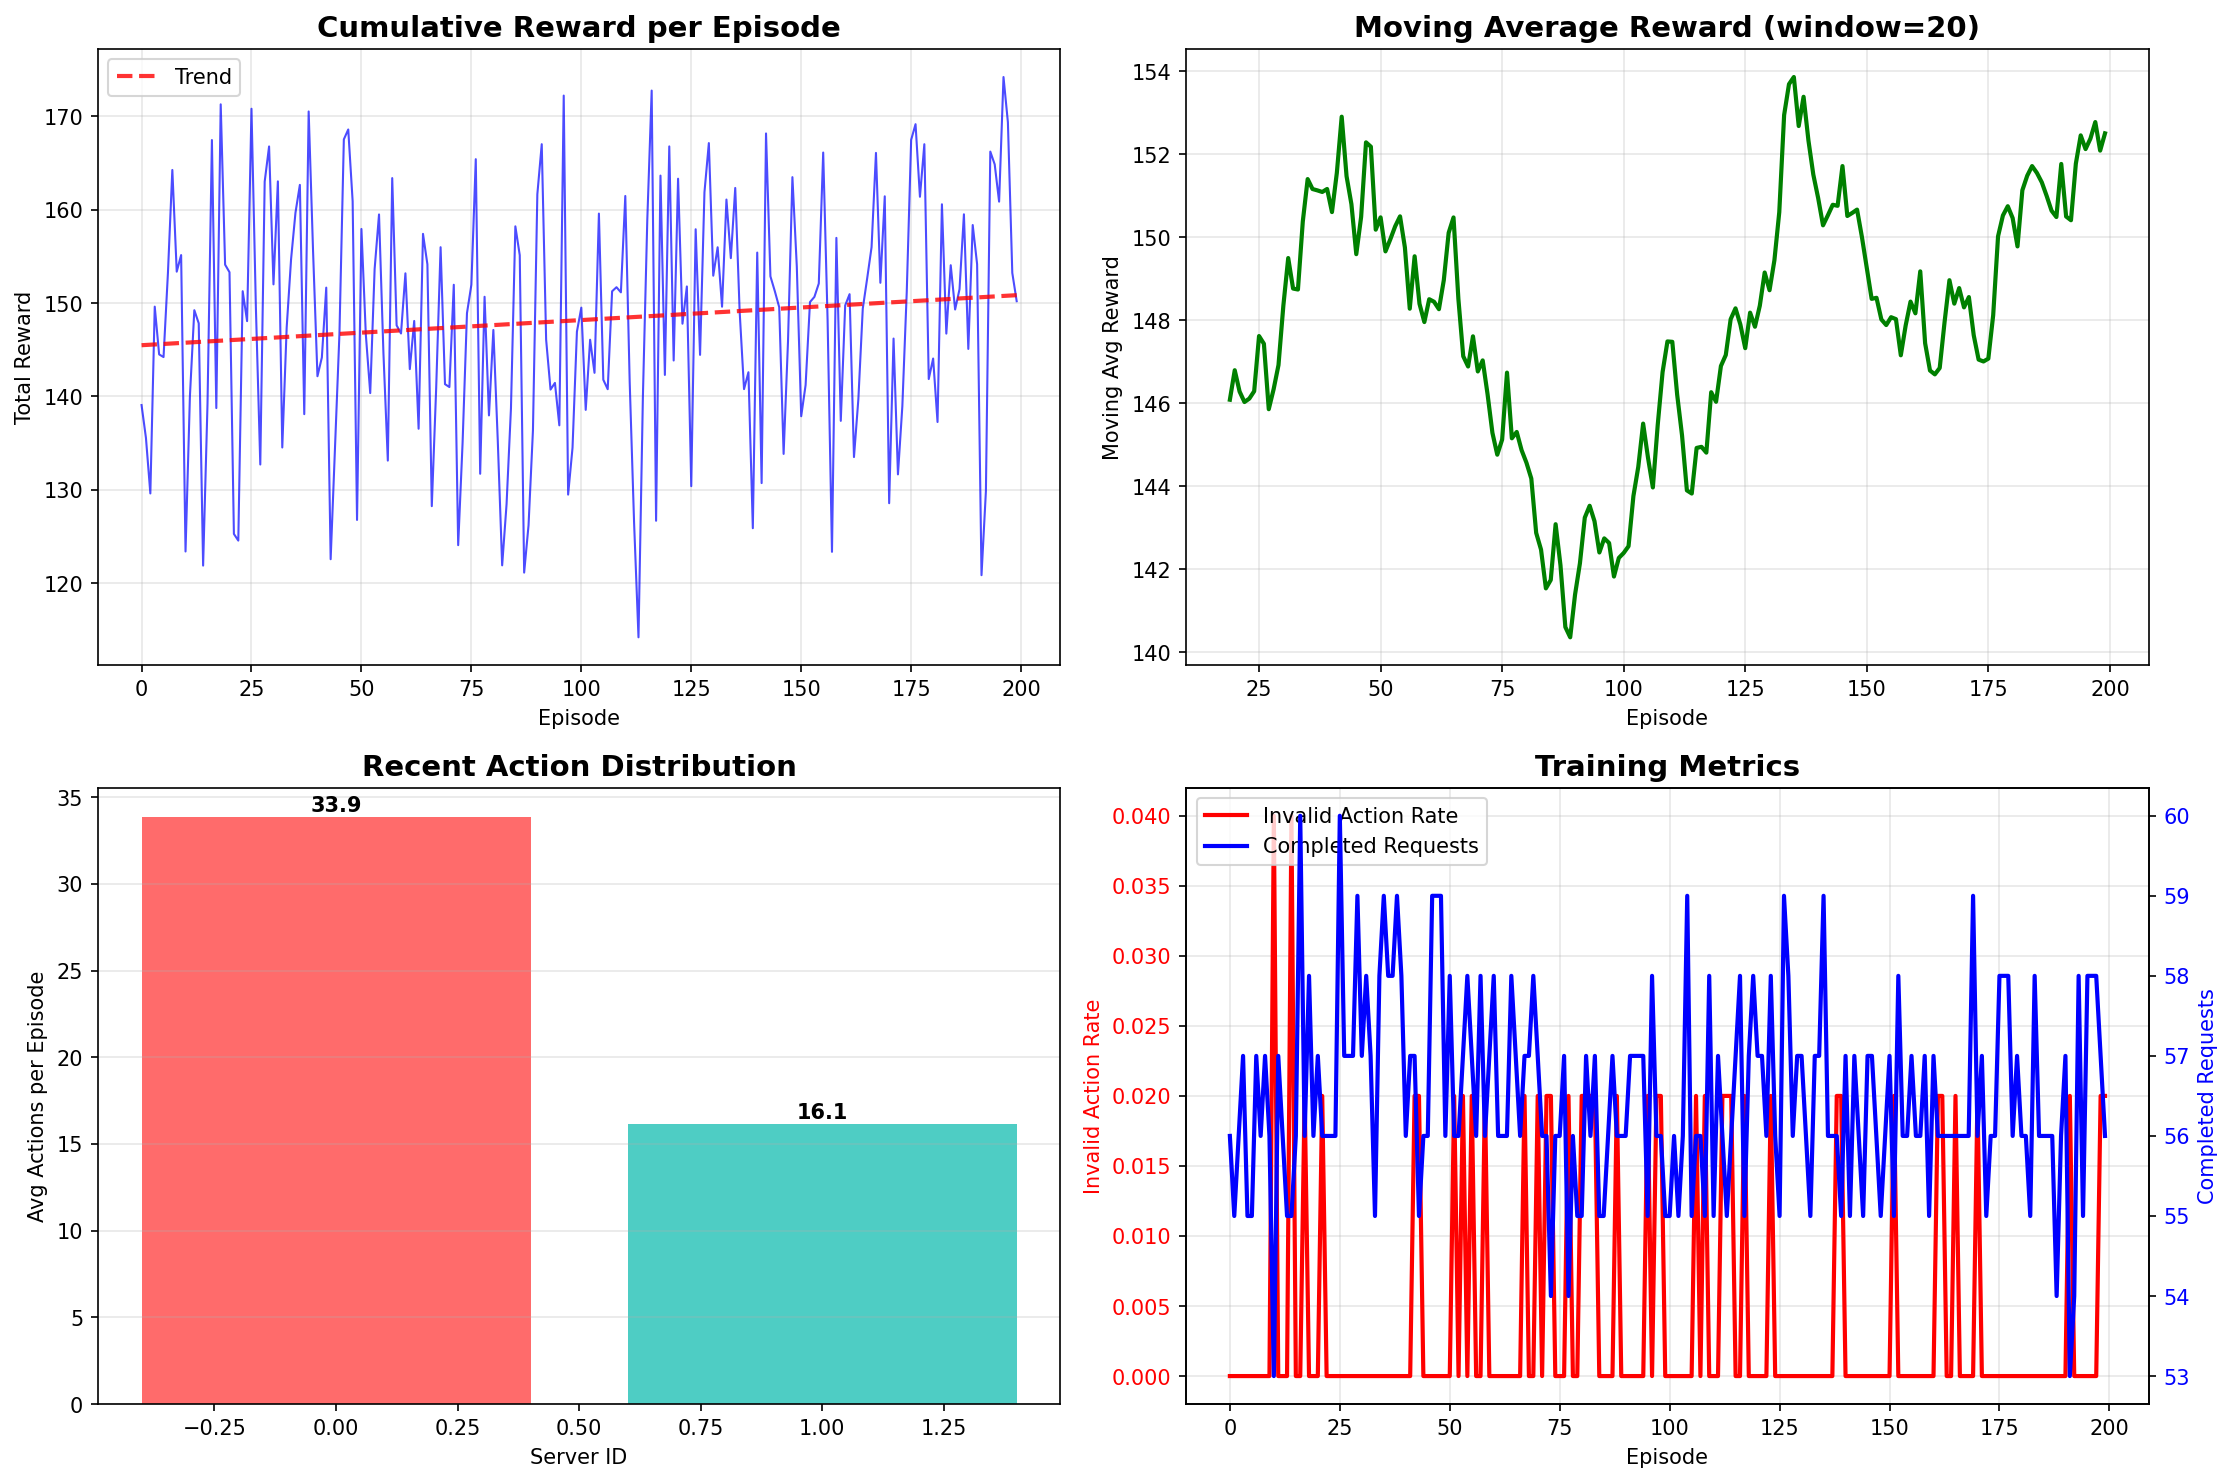
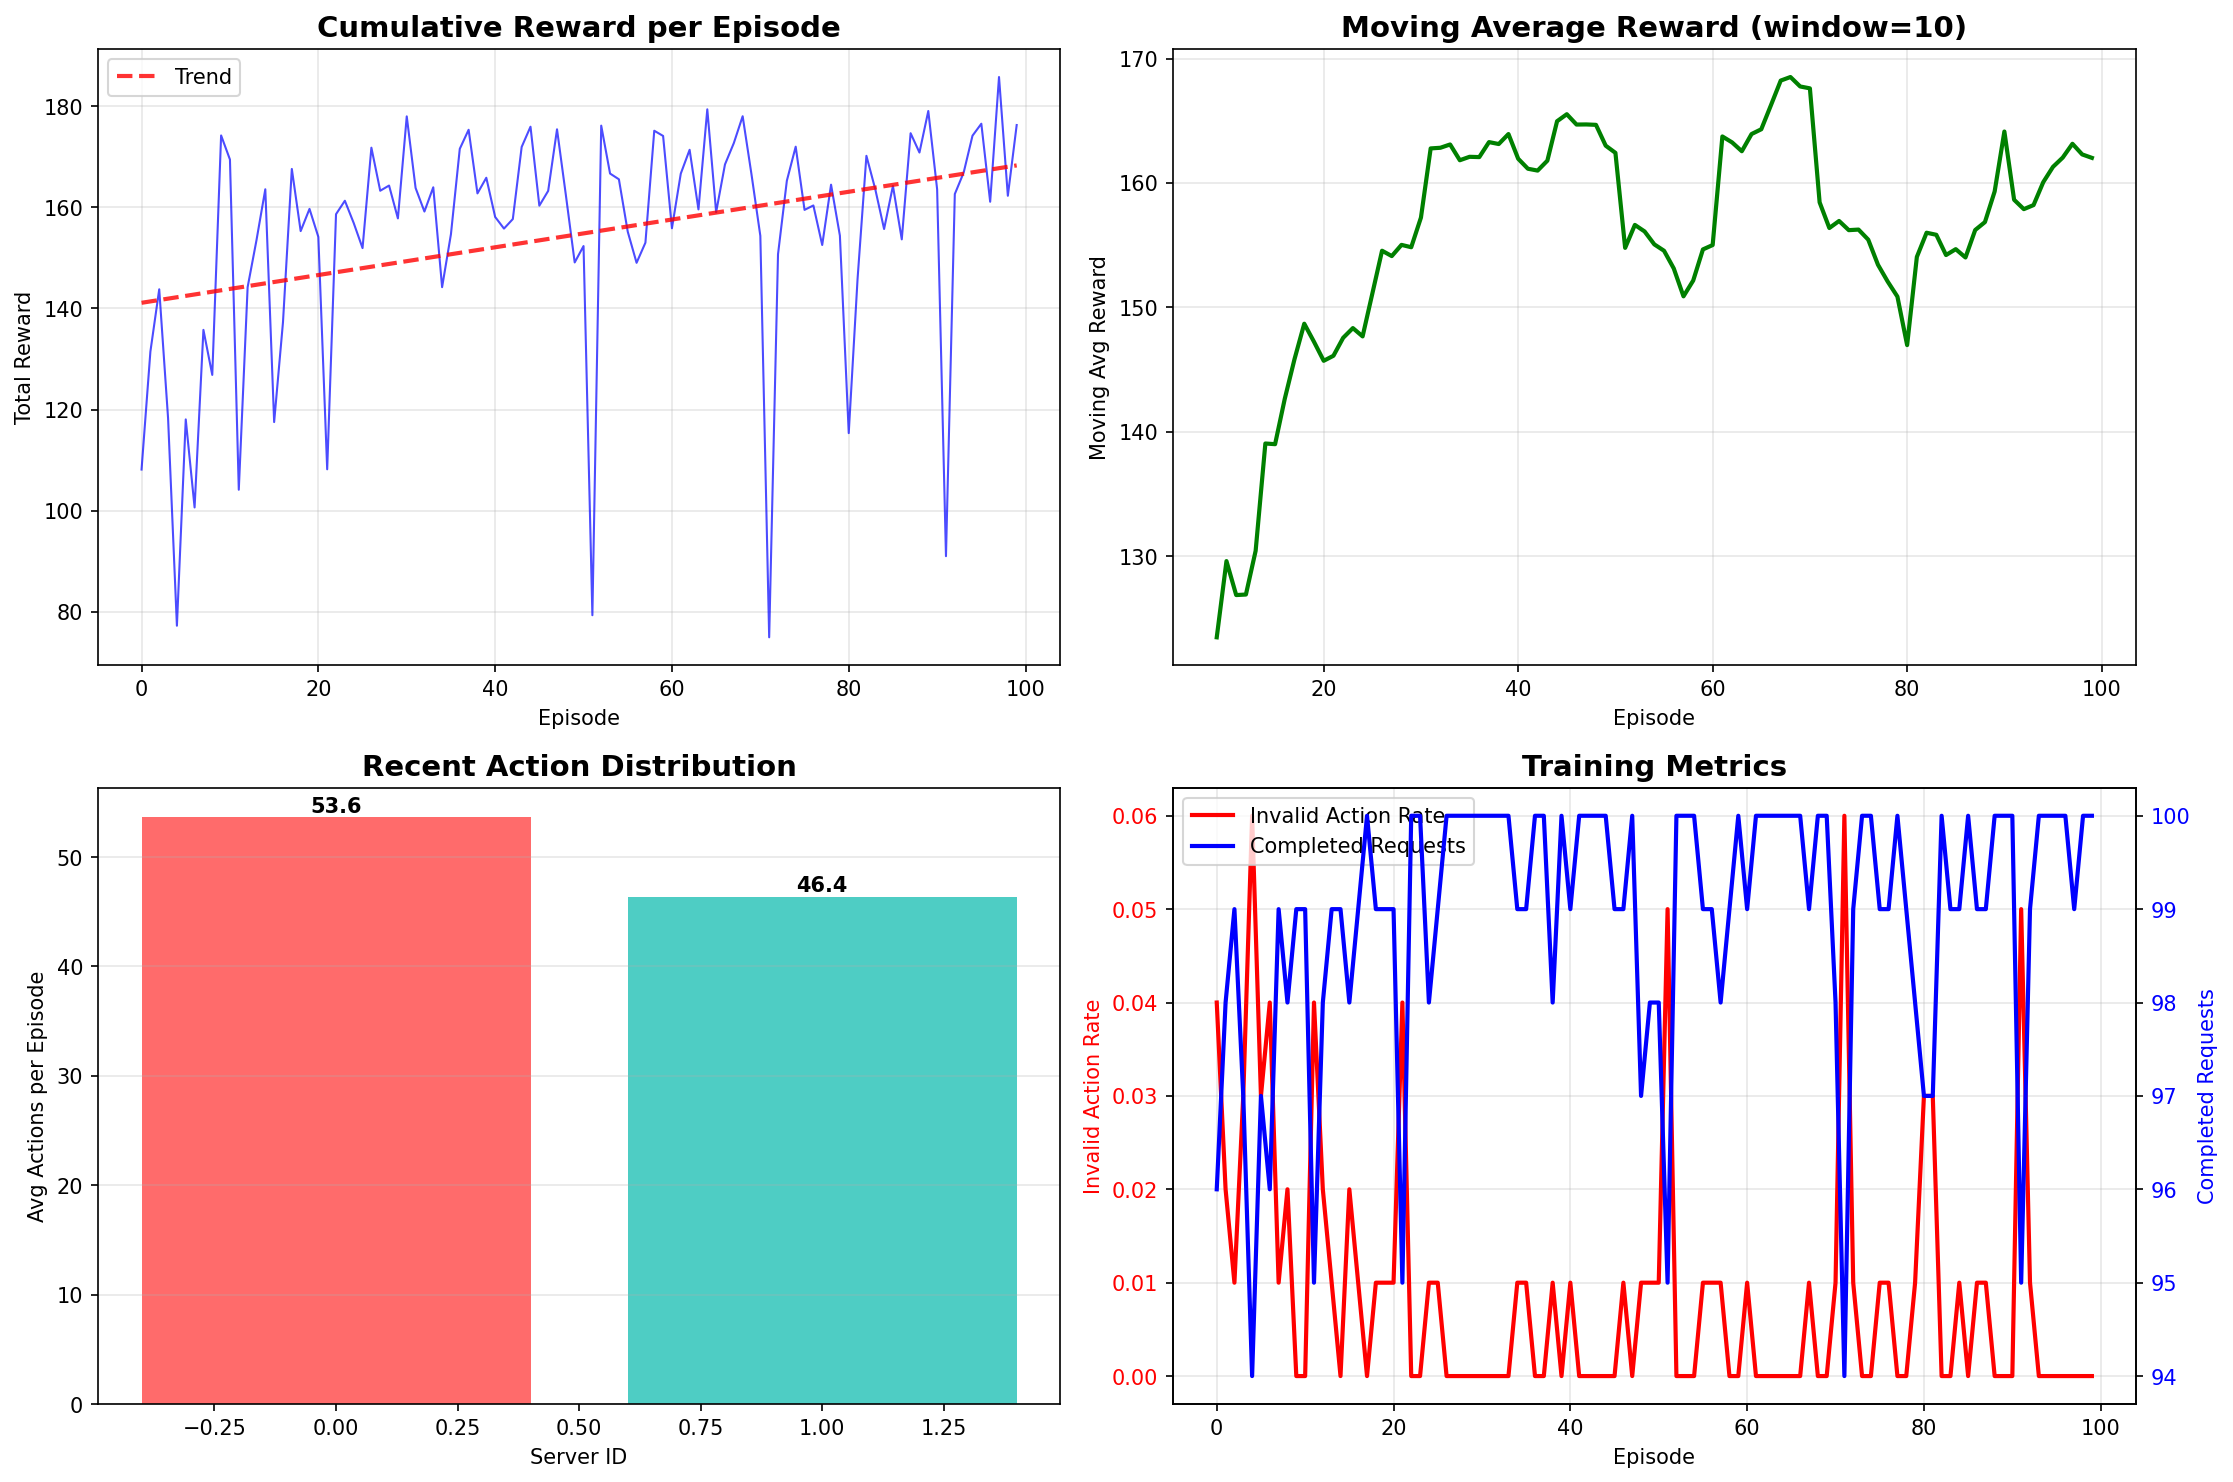
vllm

diff --git a/LLM-ROUTER-V3/data_loader.py b/LLM-ROUTER-V3/data_loader.py
@@ -6,32 +6,50 @@ from config import Config
 class AlpacaDataLoader:
     def __init__(self):
         self.dataset = None
-        self.current_index = 0
+        self.current_episode = 0
+        self.current_step = 0
+        self.partitioned_data = []
         self.load_dataset()
     
     def load_dataset(self):
-        """Load the Alpaca dataset"""
+        """Load and partition the Alpaca dataset"""
         try:
             # Load the Alpaca dataset
             dataset = load_dataset(Config.DATASET_NAME, split='train')
             
-            # Convert to list and shuffle
+            # Convert to list
             self.dataset = list(dataset)
-            random.shuffle(self.dataset)
             
-            # Limit dataset size for testing
-            if len(self.dataset) > Config.MAX_SAMPLES:
-                self.dataset = self.dataset[:Config.MAX_SAMPLES]
+            # Calculate total samples needed
+            total_samples_needed = Config.EPISODE_LENGTH * Config.MAX_EPISODES
             
-            print(f"Loaded {len(self.dataset)} samples from {Config.DATASET_NAME}")
+            # If dataset is smaller than needed, repeat it
+            if len(self.dataset) < total_samples_needed:
+                repetitions = (total_samples_needed + len(self.dataset) - 1) // len(self.dataset)
+                self.dataset = self.dataset * repetitions
+            
+            # Trim to exact size needed
+            self.dataset = self.dataset[:total_samples_needed]
+            
+            # Partition the dataset
+            self.partitioned_data = []
+            for i in range(Config.MAX_EPISODES):
+                start_idx = i * Config.EPISODE_LENGTH
+                end_idx = start_idx + Config.EPISODE_LENGTH
+                episode_data = self.dataset[start_idx:end_idx]
+                self.partitioned_data.append(episode_data)
+            
+            print(f"Loaded and partitioned {len(self.dataset)} samples into "
+                  f"{len(self.partitioned_data)} episodes of {Config.EPISODE_LENGTH} steps each")
             
         except Exception as e:
             print(f"Error loading dataset: {e}")
             # Fallback to dummy data
-            self.dataset = self._create_dummy_dataset()
+            self._create_dummy_dataset()
     
-    def _create_dummy_dataset(self) -> List[Dict]:
-        """Create dummy dataset for testing"""
+    def _create_dummy_dataset(self):
+        """Create partitioned dummy dataset"""
+        total_samples = Config.EPISODE_LENGTH * Config.MAX_EPISODES
         dummy_data = []
         templates = [
             "Explain the concept of {topic}",
@@ -39,9 +57,6 @@ class AlpacaDataLoader:
             "What are the benefits of {topic}?",
             "How does {topic} work?",
             "Compare and contrast {topic1} and {topic2}",
-            "Provide step-by-step instructions for {topic}",
-            "What are the challenges related to {topic}?",
-            "Describe the history of {topic}",
         ]
         
         topics = [
@@ -51,22 +66,52 @@ class AlpacaDataLoader:
             "robotics", "cybersecurity", "nanotechnology"
         ]
         
-        for i in range(Config.MAX_SAMPLES):
-            template = random.choice(templates)
-            if "{topic1}" in template and "{topic2}" in template:
-                topic1, topic2 = random.sample(topics, 2)
-                instruction = template.format(topic1=topic1, topic2=topic2)
-            else:
-                topic = random.choice(topics)
-                instruction = template.format(topic=topic)
+        # Generate deterministic dummy data
+        for i in range(total_samples):
+            template = templates[i % len(templates)]
+            topic = topics[i % len(topics)]
+            instruction = template.format(topic=topic, topic1=topics[i % len(topics)], 
+                                       topic2=topics[(i + 1) % len(topics)])
             
             dummy_data.append({
                 'instruction': instruction,
                 'input': '',
-                'output': f'This is a sample response for: {instruction}'
+                'output': f'Sample response {i}: {instruction}'
             })
         
-        return dummy_data
+        # Partition dummy data
+        self.dataset = dummy_data
+        self.partitioned_data = []
+        for i in range(Config.MAX_EPISODES):
+            start_idx = i * Config.EPISODE_LENGTH
+            end_idx = start_idx + Config.EPISODE_LENGTH
+            self.partitioned_data.append(dummy_data[start_idx:end_idx])
+    
+    def get_next_prompt(self) -> str:
+        """Get next prompt in sequence"""
+        if not self.partitioned_data:
+            raise RuntimeError("Dataset not properly initialized")
+        
+        # Get current episode's data
+        episode_data = self.partitioned_data[self.current_episode]
+        sample = episode_data[self.current_step]
+        prompt = self.get_prompt(sample)
+        
+        # Update step counter
+        self.current_step += 1
+        if self.current_step >= Config.EPISODE_LENGTH:
+            self.current_step = 0
+            self.current_episode = (self.current_episode + 1) % Config.MAX_EPISODES
+        
+        return prompt
+    
+    def reset_episode(self, episode_num: int):
+        """Reset to start of specified episode"""
+        if episode_num < 0 or episode_num >= Config.MAX_EPISODES:
+            raise ValueError(f"Invalid episode number: {episode_num}")
+        
+        self.current_episode = episode_num
+        self.current_step = 0
     
     def get_prompt(self, sample: Dict) -> str:
         """Convert dataset sample to prompt string"""
@@ -80,49 +125,11 @@ class AlpacaDataLoader:
         
         return prompt
     
-    def get_next_batch(self, batch_size: int) -> List[str]:
-        """Get next batch of prompts"""
-        batch = []
-        for _ in range(batch_size):
-            if self.current_index >= len(self.dataset):
-                # Reset and shuffle when we reach the end
-                self.current_index = 0
-                random.shuffle(self.dataset)
-            
-            sample = self.dataset[self.current_index]
-            prompt = self.get_prompt(sample)
-            batch.append(prompt)
-            self.current_index += 1
-        
-        return batch
-    
-    def get_random_prompt(self) -> str:
-        """Get a single random prompt"""
-        sample = random.choice(self.dataset)
-        return self.get_prompt(sample)
-    
-    def reset(self):
-        """Reset the data loader"""
-        self.current_index = 0
-        random.shuffle(self.dataset)
-    
-    def __len__(self):
-        return len(self.dataset) if self.dataset else 0
-    
-    def get_stats(self) -> Dict:
-        """Get dataset statistics"""
-        if not self.dataset:
-            return {}
-        
-        total_samples = len(self.dataset)
-        avg_instruction_length = sum(len(sample['instruction'].split()) 
-                                   for sample in self.dataset) / total_samples
-        
-        return {
-            'total_samples': total_samples,
-            'avg_instruction_length': avg_instruction_length,
-            'current_index': self.current_index
-        }
+    def get_episode_data(self, episode_num: int) -> List[Dict]:
+        """Get all samples for a specific episode"""
+        if episode_num < 0 or episode_num >= Config.MAX_EPISODES:
+            raise ValueError(f"Invalid episode number: {episode_num}")
+        return self.partitioned_data[episode_num]
 
 class EpisodeBuffer:
     """Buffer to store episode trajectories"""

diff --git a/LLM-ROUTER-V3/trainer.py b/LLM-ROUTER-V3/trainer.py
@@ -18,6 +18,9 @@ class EnhancedLLMRouterTrainer:
         self.data_loader = AlpacaDataLoader()
         self.buffer = EpisodeBuffer()
         
+        # Initialize episode tracking
+        self.current_episode = 0  
+        
         # Initialize PPO agent
         state_dim = len(Config.SERVER_CAPACITIES) * 2  # load + utilization per server
         action_dim = len(Config.SERVER_CAPACITIES)  # Number of servers
@@ -46,18 +49,18 @@ class EnhancedLLMRouterTrainer:
         if not Config.CONSOLE_CONFIG.get('episode_progress', True):
             return
             
-        print("\n📋 Training Configuration Summary:")
+        print("\n Training Configuration Summary:")
         print("=" * 50)
         summary = Config.get_config_summary()
         
-        print(f"🔧 Core Settings:")
+        print(f" Core Settings:")
         print(f"   Wandb Logging: {'✅' if summary['wandb_logging'] else '❌'}")
         print(f"   Console Logging: {'✅' if summary['console_logging'] else '❌'}")
         print(f"   Queue Monitoring: {'✅' if summary['queue_monitoring'] else '❌'}")
         print(f"   Visualizations: {'✅' if summary['visualizations'] else '❌'}")
         print(f"   File Exports: {'✅' if summary['file_exports'] else '❌'}")
         
-        print(f"\n📊 Active Features:")
+        print(f"\n Active Features:")
         print(f"   Visualizations: {summary['active_visualizations']}/{len(Config.VISUALIZATION_CONFIG)}")
         print(f"   Logging Types: {summary['active_logging']}/{len(Config.LOGGING_CONFIG)}")
         print(f"   Console Types: {summary['active_console']}/{len(Config.CONSOLE_CONFIG)}")
@@ -91,18 +94,20 @@ class EnhancedLLMRouterTrainer:
                 wandb.watch(self.agent.network, log='all', log_freq=100)
             
             if Config.CONSOLE_CONFIG.get('episode_progress', True):
-                print("✅ Wandb initialized successfully!")
-                print(f"🔗 Project: {Config.WANDB_PROJECT}")
+                print(" Wandb initialized successfully!")
+                print(f" Project: {Config.WANDB_PROJECT}")
             return True
             
         except Exception as e:
             if Config.CONSOLE_CONFIG.get('error_messages', True):
-                print(f"❌ Warning: Could not initialize wandb: {e}")
+                print(f" Warning: Could not initialize wandb: {e}")
                 print("Continuing without wandb logging...")
             return False
     
     def run_episode(self) -> dict:
-        """Run a single episode and collect trajectory"""
+        """Run a single episode"""
+        # Reset episode data
+        self.data_loader.reset_episode(self.current_episode)
         state = self.env.reset()
         episode_reward = 0
         episode_info = {
@@ -120,7 +125,7 @@ class EnhancedLLMRouterTrainer:
         }
         
         for step in range(Config.EPISODE_LENGTH):
-            prompt = self.data_loader.get_random_prompt()
+            prompt = self.data_loader.get_next_prompt()  
             action_mask = self.env.get_action_mask()
             action, log_prob, value = self.agent.get_action(state, prompt, action_mask)
             next_state, reward, done, info = self.env.step(action, prompt)
@@ -257,6 +262,9 @@ class EnhancedLLMRouterTrainer:
         best_reward = float('-inf')
         
         for episode in range(Config.MAX_EPISODES):
+            self.current_episode = episode  # Update current episode
+            self.env.set_episode(episode)  # Update environment episode tracking
+            
             print(f"\nRunning Episode {episode}...")
             
             # Run episode